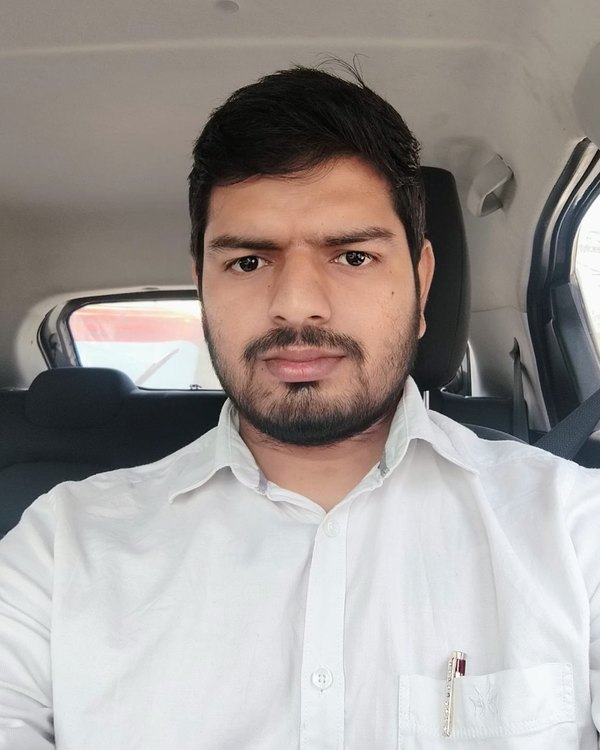
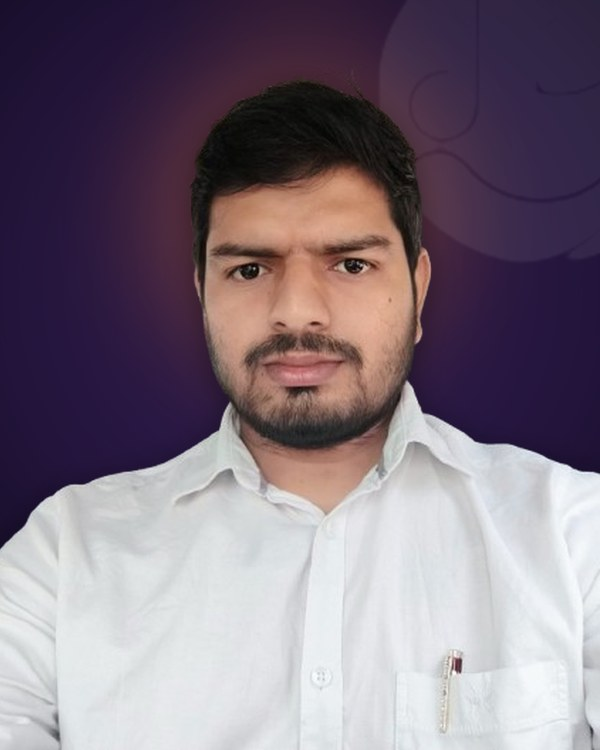
Meet Our Team: full profile popup, background ornaments, brand badge
- "View full profile" dialog for members with a long-form profile
  (admin: Full profile field)
- Faint rotating mandala, side mandalas, brand glows and gold edge lines
- Small PujariDekho badge on every portrait
- Founder portrait on a dark brand background

diff --git a/src/features/about/components/team-section.tsx b/src/features/about/components/team-section.tsx
@@ -4,6 +4,7 @@ import { Container } from "@/components/shared/container";
 import { SectionHeading } from "@/components/shared/section-heading";
 import { Reveal } from "@/components/shared/reveal";
 import { TeamPhotoMotion } from "@/features/about/components/team-photo-motion";
+import { TeamProfileDialog } from "@/features/about/components/team-profile-dialog";
 import { SERVER_API_URL } from "@/lib/server-env";
 import { cn } from "@/lib/utils";
 
@@ -14,6 +15,7 @@ export interface TeamMember {
   name: string;
   designation: string;
   bio?: string;
+  profile?: string;
   group?: "leadership" | "advisor";
   photo?: string;
   photoPosition?: "top" | "center" | "bottom";
@@ -72,6 +74,10 @@ function TeamCard({ member, index }: { member: TeamMember; index: number }) {
             <div className="pointer-events-none absolute inset-x-0 bottom-0 h-1/3 bg-gradient-to-t from-brand-purple-deep/35 to-transparent opacity-70 transition-opacity duration-300 group-hover:opacity-100" />
             <span className="pointer-events-none absolute left-3 top-3 h-5 w-5 rounded-tl-md border-l-2 border-t-2 border-white/80 transition-all duration-500 group-hover:h-9 group-hover:w-9 group-hover:border-white" />
             <span className="pointer-events-none absolute bottom-3 right-3 h-5 w-5 rounded-br-md border-b-2 border-r-2 border-white/80 transition-all duration-500 group-hover:h-9 group-hover:w-9 group-hover:border-white" />
+            {/* PujariDekho mark on every portrait, including photos uploaded later from admin. */}
+            <span className="pointer-events-none absolute bottom-3 left-3 flex h-6 w-6 items-center justify-center rounded-full bg-white/95 shadow-md ring-1 ring-black/5 transition-transform duration-500 group-hover:scale-110">
+              <Image src="/brand/icon.png" alt="" width={16} height={16} className="h-4 w-4 object-contain" />
+            </span>
           </div>
         </div>
         <figcaption className="px-1 pt-4 text-center lg:flex-1 lg:px-0 lg:pt-0 lg:text-left">
@@ -79,9 +85,34 @@ function TeamCard({ member, index }: { member: TeamMember; index: number }) {
           <p className="font-ui mt-1.5 text-[11px] font-bold uppercase tracking-[0.16em] text-primary">{member.designation}</p>
           <span className="mx-auto mt-3 block h-[2px] w-6 rounded-full bg-primary/40 transition-all duration-300 group-hover:w-12 group-hover:bg-primary lg:mx-0" />
           {member.bio ? <p className="mt-3 text-[13px] leading-relaxed text-muted-foreground lg:text-sm">{member.bio}</p> : null}
+          {member.profile ? (
+            <TeamProfileDialog name={member.name} designation={member.designation} photo={member.photo} profile={member.profile} />
+          ) : null}
         </figcaption>
       </figure>
     </Reveal>
+  );
+}
+
+
+/** Line-art mandala used as a faint background ornament. */
+function Mandala({ className }: { className?: string }) {
+  const petals = Array.from({ length: 16 }, (_, i) => i * 22.5);
+  const outer = Array.from({ length: 32 }, (_, i) => i * 11.25);
+  return (
+    <svg viewBox="0 0 400 400" fill="none" stroke="currentColor" aria-hidden className={className}>
+      <circle cx="200" cy="200" r="196" strokeWidth="1" />
+      <circle cx="200" cy="200" r="170" strokeWidth="0.8" strokeDasharray="2 6" />
+      {outer.map((a) => (
+        <path key={`o${a}`} d="M200 30 Q212 48 200 66 Q188 48 200 30Z" strokeWidth="0.8" transform={`rotate(${a} 200 200)`} />
+      ))}
+      <circle cx="200" cy="200" r="128" strokeWidth="1" />
+      {petals.map((a) => (
+        <path key={`p${a}`} d="M200 72 Q232 120 200 168 Q168 120 200 72Z" strokeWidth="1" transform={`rotate(${a} 200 200)`} />
+      ))}
+      <circle cx="200" cy="200" r="32" strokeWidth="1" />
+      <circle cx="200" cy="200" r="12" strokeWidth="1" />
+    </svg>
   );
 }
 
@@ -94,10 +125,20 @@ export async function TeamSection() {
   ].filter((g) => g.members.length > 0);
 
   return (
-    <section className="relative overflow-hidden bg-muted/30 py-16 sm:py-20">
+    <section className="relative isolate overflow-hidden bg-muted/30 py-16 sm:py-20">
+      {/* Background ornaments: mandala behind the heading, soft brand glows, gold edge lines. */}
+      <div aria-hidden className="pointer-events-none absolute inset-0 -z-10">
+        <Mandala className="absolute left-1/2 top-[-9rem] h-[34rem] w-[34rem] -translate-x-1/2 text-brand-gold/[0.12] motion-safe:animate-[spin_160s_linear_infinite] sm:h-[42rem] sm:w-[42rem]" />
+        <span className="absolute -left-40 top-1/3 h-[28rem] w-[28rem] rounded-full bg-primary/10 blur-3xl" />
+        <span className="absolute -right-40 bottom-0 h-[30rem] w-[30rem] rounded-full bg-secondary/10 blur-3xl" />
+        <Mandala className="absolute -bottom-40 -left-32 hidden h-80 w-80 text-primary/10 lg:block" />
+        <Mandala className="absolute -right-28 top-1/3 hidden h-72 w-72 text-secondary/10 lg:block" />
+        <span className="absolute inset-x-0 top-0 h-px bg-gradient-to-r from-transparent via-brand-gold/50 to-transparent" />
+        <span className="absolute inset-x-0 bottom-0 h-px bg-gradient-to-r from-transparent via-brand-gold/50 to-transparent" />
+      </div>
       <div
         aria-hidden
-        className="pointer-events-none absolute inset-0 opacity-50"
+        className="pointer-events-none absolute inset-0 -z-10 opacity-50"
         style={{
           backgroundImage: "radial-gradient(circle at 1px 1px, rgba(217,164,65,0.18) 1.2px, transparent 1.4px)",
           backgroundSize: "28px 28px",

diff --git a/src/app/admin/(protected)/cms/team/page.tsx b/src/app/admin/(protected)/cms/team/page.tsx
@@ -31,6 +31,7 @@ const schema = z.object({
   designation: z.string().trim().min(1, "Designation is required").max(80),
   bio: z.string().trim().max(240, "Keep the bio under 240 characters"),
   group: z.enum(["leadership", "advisor"]),
+  profile: z.string().trim().max(4000, "Keep the profile under 4000 characters"),
   photo: z.string().optional(),
   photoPosition: z.enum(["top", "center", "bottom"]),
   featured: z.boolean(),
@@ -38,7 +39,7 @@ const schema = z.object({
 });
 type FormValues = z.infer<typeof schema>;
 
-const EMPTY: FormValues = { name: "", designation: "", bio: "", group: "leadership", photo: "", photoPosition: "top", featured: false, isActive: true };
+const EMPTY: FormValues = { name: "", designation: "", bio: "", group: "leadership", profile: "", photo: "", photoPosition: "top", featured: false, isActive: true };
 const POSITION_CLASS = { top: "object-top", center: "object-center", bottom: "object-bottom" } as const;
 
 function Portrait({ src, position, className }: { src?: string; position: FormValues["photoPosition"]; className: string }) {
@@ -83,6 +84,7 @@ export default function TeamMembersPage() {
       designation: m.designation,
       bio: m.bio ?? "",
       group: m.group ?? "leadership",
+      profile: m.profile ?? "",
       photo: m.photo ?? "",
       photoPosition: m.photoPosition ?? "top",
       featured: m.featured,
@@ -255,6 +257,12 @@ export default function TeamMembersPage() {
               <Textarea rows={3} maxLength={240} placeholder="One or two lines about their role at PujariDekho" {...register("bio")} />
               <p className="text-xs text-muted-foreground">{(watch("bio") ?? "").length}/240 — shown under the name on the About page.</p>
               {errors.bio && <p className="text-xs text-destructive">{errors.bio.message}</p>}
+            </div>
+            <div className="space-y-1.5">
+              <Label>Full profile (optional)</Label>
+              <Textarea rows={6} maxLength={4000} placeholder="Longer background, experience and achievements. Leave a blank line between paragraphs." {...register("profile")} />
+              <p className="text-xs text-muted-foreground">Shown in a “View full profile” popup on the card. {(watch("profile") ?? "").length}/4000</p>
+              {errors.profile && <p className="text-xs text-destructive">{errors.profile.message}</p>}
             </div>
             <div className="space-y-1.5">
               <Label>Photo</Label>

diff --git a/src/features/about/components/team-profile-dialog.tsx b/src/features/about/components/team-profile-dialog.tsx
@@ -1,0 +1,53 @@
+"use client";
+
+import Image from "next/image";
+import { ArrowRight } from "lucide-react";
+import { Dialog, DialogContent, DialogDescription, DialogHeader, DialogTitle, DialogTrigger } from "@/components/ui/dialog";
+
+/** "View full profile" link on a team card, opening the long-form profile. */
+export function TeamProfileDialog({
+  name,
+  designation,
+  photo,
+  profile,
+}: {
+  name: string;
+  designation: string;
+  photo?: string;
+  profile: string;
+}) {
+  const paragraphs = profile.split(/\n\s*\n/).map((p) => p.trim()).filter(Boolean);
+
+  return (
+    <Dialog>
+      <DialogTrigger asChild>
+        <button
+          type="button"
+          className="font-ui mt-3 inline-flex items-center gap-1.5 text-xs font-bold uppercase tracking-[0.14em] text-primary transition-colors hover:text-secondary"
+        >
+          View full profile <ArrowRight size={14} />
+        </button>
+      </DialogTrigger>
+      <DialogContent className="max-h-[88vh] gap-0 p-0 sm:max-w-2xl">
+        <DialogHeader className="flex-row items-center gap-4 border-b border-border bg-gradient-to-r from-primary/10 via-brand-gold/10 to-transparent p-5 text-left sm:p-6">
+          {photo ? (
+            <span className="relative h-20 w-16 shrink-0 overflow-hidden rounded-xl ring-2 ring-primary/30">
+              <Image src={photo} alt="" fill sizes="64px" className="object-cover object-top" />
+            </span>
+          ) : null}
+          <span>
+            <DialogTitle className="font-heading text-xl font-bold text-foreground">{name}</DialogTitle>
+            <DialogDescription className="font-ui mt-1 text-[11px] font-bold uppercase tracking-[0.16em] text-primary">
+              {designation}
+            </DialogDescription>
+          </span>
+        </DialogHeader>
+        <div className="space-y-4 p-5 text-[15px] leading-relaxed text-muted-foreground sm:p-6">
+          {paragraphs.map((p, i) => (
+            <p key={i}>{p}</p>
+          ))}
+        </div>
+      </DialogContent>
+    </Dialog>
+  );
+}

diff --git a/src/features/admin/api/use-team.ts b/src/features/admin/api/use-team.ts
@@ -6,6 +6,7 @@ export interface TeamMemberAdmin {
   name: string;
   designation: string;
   bio?: string;
+  profile?: string;
   group: "leadership" | "advisor";
   photo?: string;
   photoPosition: "top" | "center" | "bottom";
